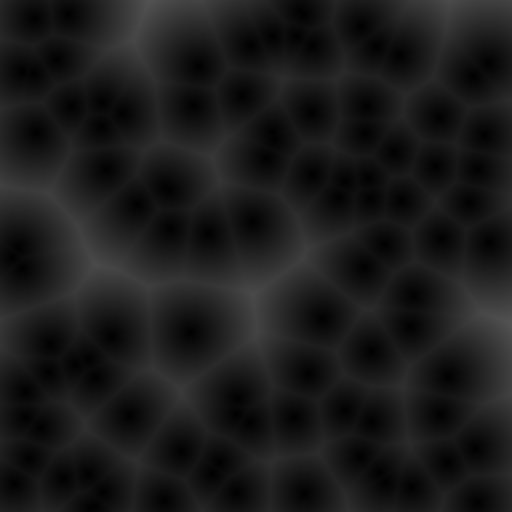
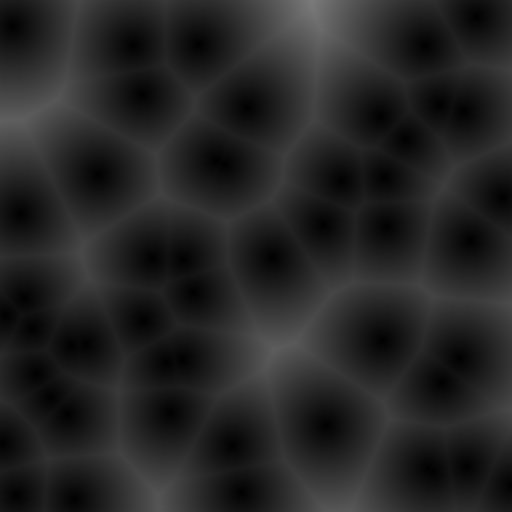
owo

diff --git a/cMultithread/main.py b/cMultithread/main.py
@@ -12,21 +12,25 @@ import time
 #Pygame initialization
 pg.init()
 size = 9
-seeds = 100
+seeds = 50
 wSize = width, height = 2**size, 2**size
 screen = pg.display.set_mode(wSize)
 black = 0, 0, 0
 white = 255, 255, 255
 
 #Ctypes initialization
-_doublepp = ndpointer(dtype=np.uintp, ndim=1, flags='C')
 _dll  = CDLL("cMultithread/bridge.so")
+
+
+
+_doublepp = ndpointer(dtype=np.uintp, ndim=1, flags='C')
 
 _getMatrix = _dll.getMatrix 
 _getMatrix.argtypes = [_doublepp, c_int, c_int, ndpointer(c_double, flags="C_CONTIGUOUS"), ndpointer(c_double, flags="C_CONTIGUOUS"), c_int]
 _getMatrix.restype = None 
 
 matrix = np.arange((2**(size+size))).reshape((2**(size), 2**(size)))
+
 matrixPtr = (matrix.__array_interface__['data'][0]  + np.arange(matrix.shape[0])*matrix.strides[0]).astype(np.uintp)
 
 randomSeedsX = np.random.randint(2**size, size=seeds)
@@ -34,32 +38,6 @@ randomSeedsY = np.random.randint(2**size, size=seeds)
 
 seedsX = np.array(randomSeedsX, dtype=np.float64)
 seedsY = np.array(randomSeedsY, dtype=np.float64)
-
-_getMatrix(matrixPtr, size, seeds, seedsX, seedsY, 6)
-
-# densityBASE =  "$@B%8&WM#*oahkbdpqwmZO0QLCJUYXzcvunxrjft/\|()1{}[]?-_+~<>i!lI;:,\"^`'. "
-
-# maxDistance = math.sqrt(2)*(2**size)
-# density = ""
-# for i in range(len(densityBASE)):
-#     for j in range(int(maxDistance)//len(densityBASE)):
-#         density += densityBASE[i]
-
-# for j in range(len(matrix)):
-#     s = ""
-#     for i in range(len(matrix[j])):
-#         s += density[int(struct.unpack("d", struct.pack("q", int(bin((matrix[j][i])), 2)))[0])%len(density)]*2
-#     print (s)
-
-# for j in range(len(matrix)):
-#     for i in range(len(matrix[j])):
-#         c = (struct.unpack("d", struct.pack("q", int(bin((matrix[j][i])), 2)))[0]+1)
-#         screen.set_at((j, i), (c, c, c))
-
-randomSeedsX = np.random.randint(2**size, size=seeds)
-randomSeedsY = np.random.randint(2**size, size=seeds)
-
-noise = PerlinNoise(octaves=10, seed=1)
 
 ss = 0
 
@@ -78,15 +56,18 @@ while 1:
     seedsY = np.array(randomSeedsY, dtype=np.float64)
 
     _getMatrix(matrixPtr, size, seeds, seedsX, seedsY, 1)
-    time.sleep(5)
-    
+    time.sleep(2)
+
     for j in range(len(matrix)):
         for i in range(len(matrix[j])):
             c = (struct.unpack("d", struct.pack("q", int(bin((matrix[j][i])), 2)))[0]+1)
-            screen.set_at((j, i), (c, c, c))
+            if c < 1: c = 1
+            elif c > 255: c = 255
+            
+            screen.set_at((i, j), (c, c, c))
     
     pg.image.save(screen, "ss/" + str(ss)+".jpg")
-
+    print(ss)
     ss+=1
     
     pg.display.flip()

diff --git a/cMultithread/main.c b/cMultithread/main.c
@@ -108,7 +108,7 @@ void getDiagramHelperNonThreaded(int **corners,
     int *thirdCorner = corners[2];
     for (int height = firstCorner[0]; height < secondCorner[0] + 1; height++) {
       for (int width = firstCorner[1]; width < thirdCorner[1] + 1; width++) {
-        voronoiDiagram->matrix[height][width] = sqrt(pow(closestSeeds[0]->x - width,2) + pow( closestSeeds[0]->y - height, 2));
+        voronoiDiagram->matrix[height][width] = voronoiDiagram->matrix[height][width] = distance(closestSeeds[0], height, width);;
       }
     }
   } else {
@@ -257,7 +257,8 @@ void *getDiagramHelperThreaded(void *context) {
     for (int height = firstCorner[0]; height < secondCorner[0] + 1; height++) {
       for (int width = firstCorner[1]; width < thirdCorner[1] + 1; width++) {
         // voronoiDiagram->matrix[height][width] = sqrt(pow(closestSeeds[0]->x - width,2) + pow( closestSeeds[0]->y - height, 2));
-        voronoiDiagram->matrix[height][width] = distance(closestSeeds[0], height, width);
+        // voronoiDiagram->matrix[height][width] = distance(closestSeeds[0], height, width);
+        voronoiDiagram->matrix[height][width] = closestSeeds[0]->id;
       }
     }
   } else {
@@ -467,10 +468,6 @@ void printfVoronoiMatrix(struct VoronoiDiagram *voronoiDiagram) {
 int getMatrix(double** matrix, int length2, int numberofSeeds, double* seedsX,  double* seedsY, int threadsNumber) {
   srand(time(NULL));
   char* threaded = "0";
-  // get length int from argv[2]
-  // get number of seeds int from argv[3]
-  /* int length2 = 10; */
-  /* int numberofSeeds = 100; */
 
   int n = pow(2, length2);
 
@@ -541,8 +538,9 @@ int getMatrix(double** matrix, int length2, int numberofSeeds, double* seedsX,  
     for (int i = 0; i < n; i++) {
       //printf("%d ", voronoiDiagram->matrix[j][i]);
       matrix[j][i] = (double)voronoiDiagram->matrix[j][i];
-      // printf("%d ", matrix[j][i]);
+      // printf("%f ", matrix[j][i]);
     }
+    // printf("\n");
   }
 
   // for (int i = 0; i < voronoiDiagram->seedsCount; i++) {
